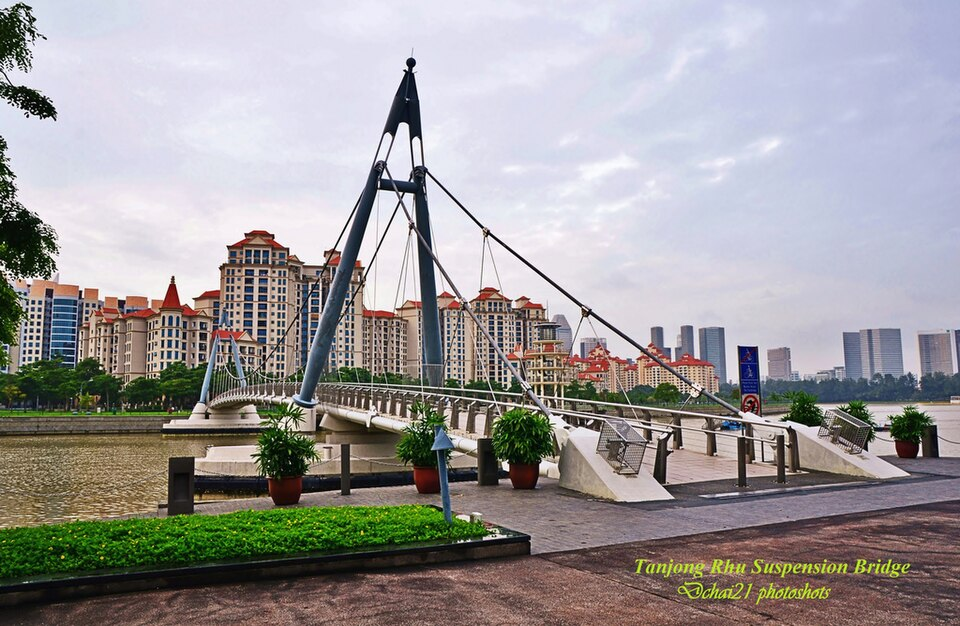
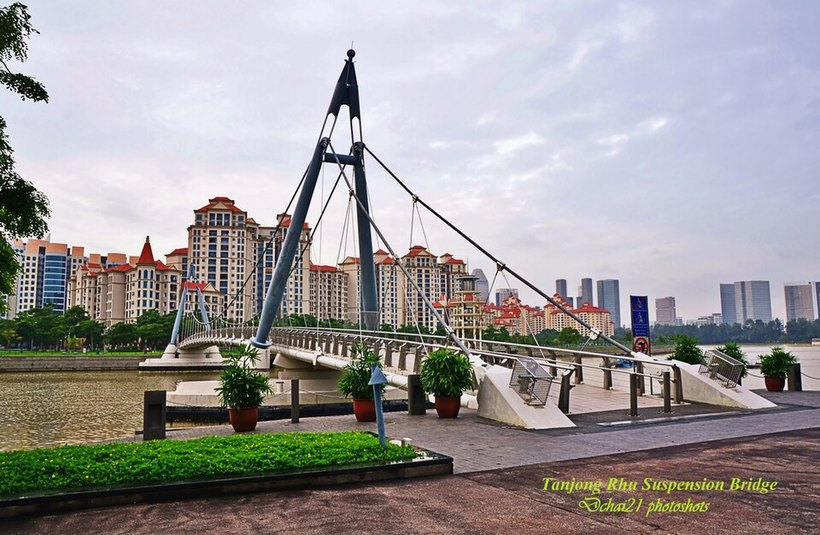
Enam foto galeri dikompres di bawah 150 KB, total 820 KB jadi 531 KB
Revisi kelima tinjauan MASTER. Aturan proyek, bukan selera: siswa berkuota
terbatas menanggung tiap kilobyte.

Alat baru alat/kompres_gambar.py. Lebarnya dipangkas ke 820 piksel, yang masih
lebih dari cukup karena kartu galeri tidak pernah lebih lebar dari sekitar 600
piksel. Mutu JPEG diturunkan BERTAHAP dan berhenti begitu batasnya terpenuhi,
bukan langsung dijatuhkan ke angka rendah, supaya fotonya sepelan mungkin
kehilangan detail. Mutu di bawah 55 ditolak alatnya: lebih baik lapor gagal
daripada diam-diam memasang foto berbercak.

bakteri 265 KB jadi 140 KB (mutu 78), jembatan 162 jadi 111, antena 146 jadi
97, basket 96 jadi 70, seismograf 90 jadi 66, obat 59 jadi 45.

Hasilnya DILIHAT, bukan cuma diukur: bakteri.jpg yang paling ditekan dibuka
dan detail koloninya masih utuh, tidak ada bercak.

Foto milik topik lain tidak disentuh; alatnya hanya menyebut keenam berkas ini.

Claude-Session: https://claude.ai/code/session_017Nw3eRCMv3hKF8YG592APR

diff --git a/alat/kompres_gambar.py b/alat/kompres_gambar.py
@@ -1,0 +1,94 @@
+"""
+Kompres foto galeri supaya ringan untuk siswa berkuota terbatas.
+
+KENAPA ALAT INI ADA
+Aturan proyek: berkas gambar di situs harus di bawah 150 KB. Itu bukan selera,
+melainkan soal siswa yang kuotanya terbatas. Enam foto galeri Grafik Fungsi
+diunduh apa adanya dari Wikimedia dan dua di antaranya jauh melewati batas,
+yang terberat 265 KB.
+
+CARA KERJANYA
+Lebarnya dipangkas dulu ke ukuran yang memang dipakai halaman (kartu galeri
+tidak pernah lebih lebar dari sekitar 600 piksel, jadi 820 sudah lebih dari
+cukup termasuk untuk layar rapat piksel), lalu mutu JPEG-nya diturunkan
+bertahap sampai berkasnya masuk batas.
+
+Mutu TIDAK diturunkan membabi buta ke angka rendah. Ia diturunkan setahap demi
+setahap dan berhenti begitu batasnya terpenuhi, supaya fotonya sepelan mungkin
+kehilangan detail. Mutu di bawah 55 ditolak: lebih baik lapor gagal daripada
+diam-diam memasang foto yang penuh bercak.
+
+CARA PAKAI
+    python alat/kompres_gambar.py                 lihat dulu, tidak mengubah
+    python alat/kompres_gambar.py --kerjakan      benar-benar menimpa berkasnya
+"""
+
+from __future__ import annotations
+
+import sys
+from pathlib import Path
+
+from PIL import Image
+
+FOLDER = Path(__file__).resolve().parent.parent / 'web' / 'public' / 'gambar'
+
+# Hanya foto galeri Grafik Fungsi. Foto topik lain BUKAN wilayah sesi ini.
+BERKAS = ['basket.jpg', 'jembatan.jpg', 'antena.jpg',
+          'bakteri.jpg', 'obat.jpg', 'seismograf.jpg']
+
+BATAS_KB = 150
+LEBAR_MAKS = 820
+MUTU_AWAL = 86
+MUTU_MINIMUM = 55
+
+
+def kompres(sumber: Path, kerjakan: bool) -> tuple[int, int, int, int]:
+    """Kembalikan (kb_sebelum, kb_sesudah, lebar_sesudah, mutu_terpakai)."""
+    kb_awal = sumber.stat().st_size // 1024
+    gambar = Image.open(sumber)
+    if gambar.mode != 'RGB':
+        gambar = gambar.convert('RGB')
+
+    if gambar.width > LEBAR_MAKS:
+        tinggi = round(gambar.height * LEBAR_MAKS / gambar.width)
+        gambar = gambar.resize((LEBAR_MAKS, tinggi), Image.LANCZOS)
+
+    from io import BytesIO
+    mutu = MUTU_AWAL
+    while mutu >= MUTU_MINIMUM:
+        tampung = BytesIO()
+        gambar.save(tampung, 'JPEG', quality=mutu, optimize=True, progressive=True)
+        if tampung.tell() <= BATAS_KB * 1024:
+            if kerjakan:
+                sumber.write_bytes(tampung.getvalue())
+            return kb_awal, tampung.tell() // 1024, gambar.width, mutu
+        mutu -= 4
+
+    raise SystemExit(f'{sumber.name}: tidak bisa masuk {BATAS_KB} KB tanpa turun '
+                     f'di bawah mutu {MUTU_MINIMUM}. Ganti fotonya, jangan dipaksa.')
+
+
+def main() -> int:
+    kerjakan = '--kerjakan' in sys.argv
+    if not kerjakan:
+        print('Mode lihat saja. Tambahkan --kerjakan untuk benar-benar menimpa.\n')
+
+    gagal = 0
+    for nama in BERKAS:
+        berkas = FOLDER / nama
+        if not berkas.exists():
+            print(f'GAGAL  {nama}: berkasnya tidak ada')
+            gagal += 1
+            continue
+        awal, akhir, lebar, mutu = kompres(berkas, kerjakan)
+        tanda = 'ok  ' if akhir <= BATAS_KB else 'AWAS'
+        print(f'{tanda} {nama:16s} {awal:4d} KB -> {akhir:4d} KB   '
+              f'lebar {lebar}, mutu {mutu}')
+
+    print()
+    print('Selesai.' if kerjakan else 'Belum ada yang diubah.')
+    return 1 if gagal else 0
+
+
+if __name__ == '__main__':
+    raise SystemExit(main())
